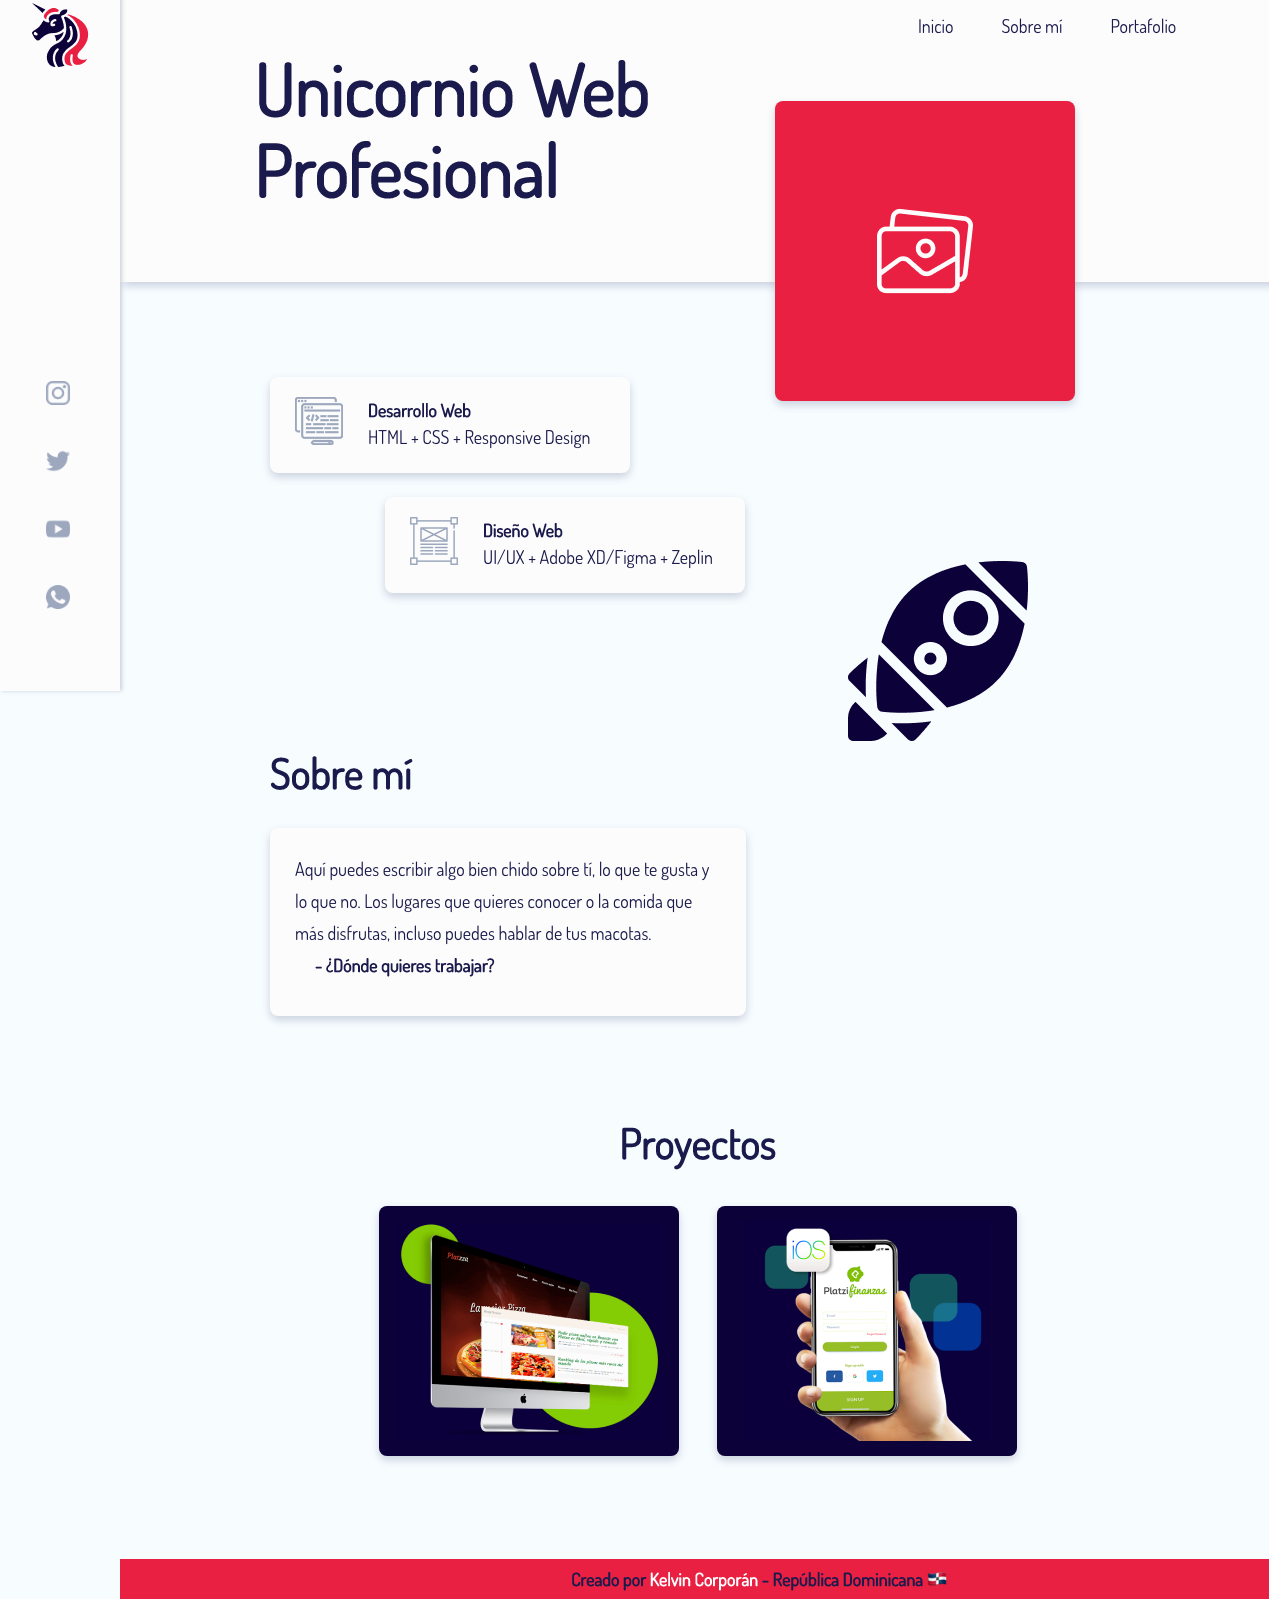
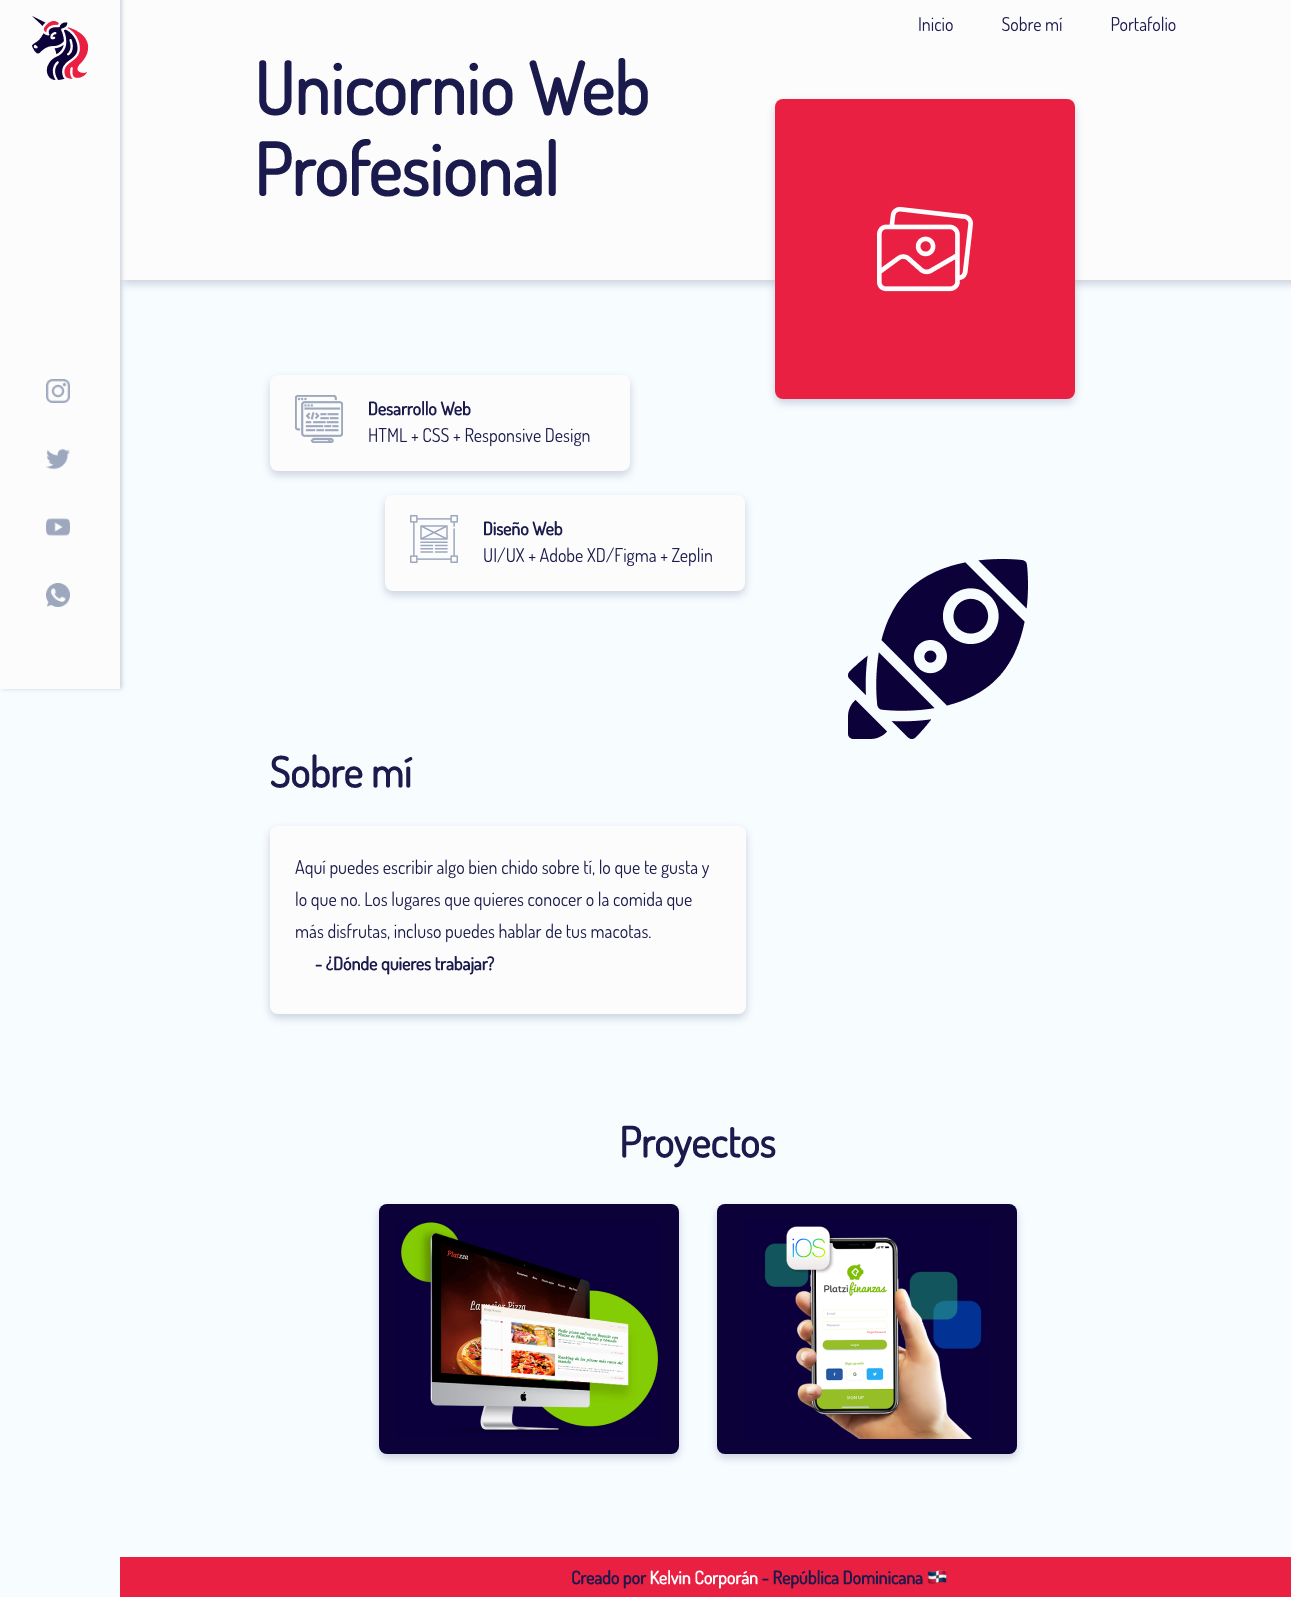
desktop design

diff --git a/assents/css/styles.css b/assents/css/styles.css
@@ -7,16 +7,13 @@ html, body {
     position: fixed;
     width: 120px;
     height: 700px;
-    left: 0px;
-    top: 0px;
     padding: 1rem;
     background-color: #FCFCFC;
-    box-shadow: 2px 0px 4px rgba(157, 168, 190, 0.5);
+    box-shadow: 2px 0 4px rgba(157, 168, 190, 0.5);
     z-index: 1; }
     html #app .section #logo, body #app .section #logo {
       display: block;
-      margin-left: auto;
-      margin-right: auto;
+      margin: 15px auto 0 auto;
       transition: width .3s; }
     html #app .section #logo:hover, body #app .section #logo:hover {
       width: 70px;
@@ -74,8 +71,8 @@ html, body {
       border-radius: 8px;
       padding: 102px;
       background-color: #E92042;
-      margin: 119px 0px 0px -120px;
-      box-shadow: 0px 4px 8px rgba(157, 168, 190, 0.5); }
+      margin: 119px 0 0px -120px;
+      box-shadow: 0 4px 8px rgba(157, 168, 190, 0.5); }
     html #app .main .level .content-element1, body #app .main .level .content-element1 {
       position: absolute;
       width: 476px;
@@ -88,7 +85,7 @@ html, body {
         width: 360px;
         height: 96px;
         background: #FCFCFC;
-        box-shadow: 0px 4px 8px rgba(157, 168, 190, 0.5);
+        box-shadow: 0 4px 8px rgba(157, 168, 190, 0.5);
         border-radius: 8px;
         padding: 20px; }
         html #app .main .level .content-element1 .card1 img, body #app .main .level .content-element1 .card1 img {
@@ -112,7 +109,7 @@ html, body {
         left: 115px;
         top: 120px;
         background: #FCFCFC;
-        box-shadow: 0px 4px 8px rgba(157, 168, 190, 0.5);
+        box-shadow: 0 4px 8px rgba(157, 168, 190, 0.5);
         border-radius: 8px;
         padding: 20px; }
         html #app .main .level .content-element1 .card2 img, body #app .main .level .content-element1 .card2 img {
@@ -155,7 +152,7 @@ html, body {
         left: 240px;
         top: 216px;
         background: #FCFCFC;
-        box-shadow: 0px 4px 8px rgba(157, 168, 190, 0.5);
+        box-shadow: 0 4px 8px rgba(157, 168, 190, 0.5);
         border-radius: 8px;
         padding: 25px;
         margin-top: 24px; }
@@ -187,7 +184,7 @@ html, body {
           width: 300px;
           height: 250px;
           background: #0D0139;
-          box-shadow: 0px 4px 8px rgba(157, 168, 190, 0.5);
+          box-shadow: 0 4px 8px rgba(157, 168, 190, 0.5);
           border-radius: 8px; }
       html #app .main .level .content-element3 p, body #app .main .level .content-element3 p {
         font-weight: bold;

diff --git a/assents/css/styles.scss b/assents/css/styles.scss
@@ -15,17 +15,14 @@ html, body {
       position: fixed;
       width: 120px;
       height: 700px;
-      left: 0px;
-      top: 0px;
       padding: 1rem;
       background-color: $content-color;
-      box-shadow: 2px 0px 4px rgba(157, 168, 190, 0.5);
+      box-shadow: 2px 0 4px rgba(157, 168, 190, 0.5);
       z-index: 1;
 
       #logo {
         display: block;
-        margin-left: auto;
-        margin-right: auto;
+        margin: 15px auto 0 auto;
         transition: width .3s;
       }
 
@@ -109,8 +106,8 @@ html, body {
         border-radius: 8px;
         padding: 102px;
         background-color: $secundary-color;
-        margin: 119px 0px 0px -120px;
-        box-shadow: 0px 4px 8px rgba(157, 168, 190, 0.5);;
+        margin: 119px 0 0px -120px;
+        box-shadow: 0 4px 8px rgba(157, 168, 190, 0.5);;
       }
 
       .level {
@@ -127,7 +124,7 @@ html, body {
             width: 360px;
             height: 96px;
             background: #FCFCFC;
-            box-shadow: 0px 4px 8px rgba(157, 168, 190, 0.5);
+            box-shadow: 0 4px 8px rgba(157, 168, 190, 0.5);
             border-radius: 8px;
             padding: 20px;
 
@@ -161,7 +158,7 @@ html, body {
             left: 115px;
             top: 120px;
             background: #FCFCFC;
-            box-shadow: 0px 4px 8px rgba(157, 168, 190, 0.5);
+            box-shadow: 0 4px 8px rgba(157, 168, 190, 0.5);
             border-radius: 8px;
             padding: 20px;
 
@@ -228,7 +225,7 @@ html, body {
             left: 240px;
             top: 216px;
             background: #FCFCFC;
-            box-shadow: 0px 4px 8px rgba(157, 168, 190, 0.5);
+            box-shadow: 0 4px 8px rgba(157, 168, 190, 0.5);
             border-radius: 8px;
             padding: 25px;
             margin-top: 24px;
@@ -271,7 +268,7 @@ html, body {
               width: 300px;
               height: 250px;
               background: $third-color;
-              box-shadow: 0px 4px 8px rgba(157, 168, 190, 0.5);
+              box-shadow: 0 4px 8px rgba(157, 168, 190, 0.5);
               border-radius: 8px;
             }
 
